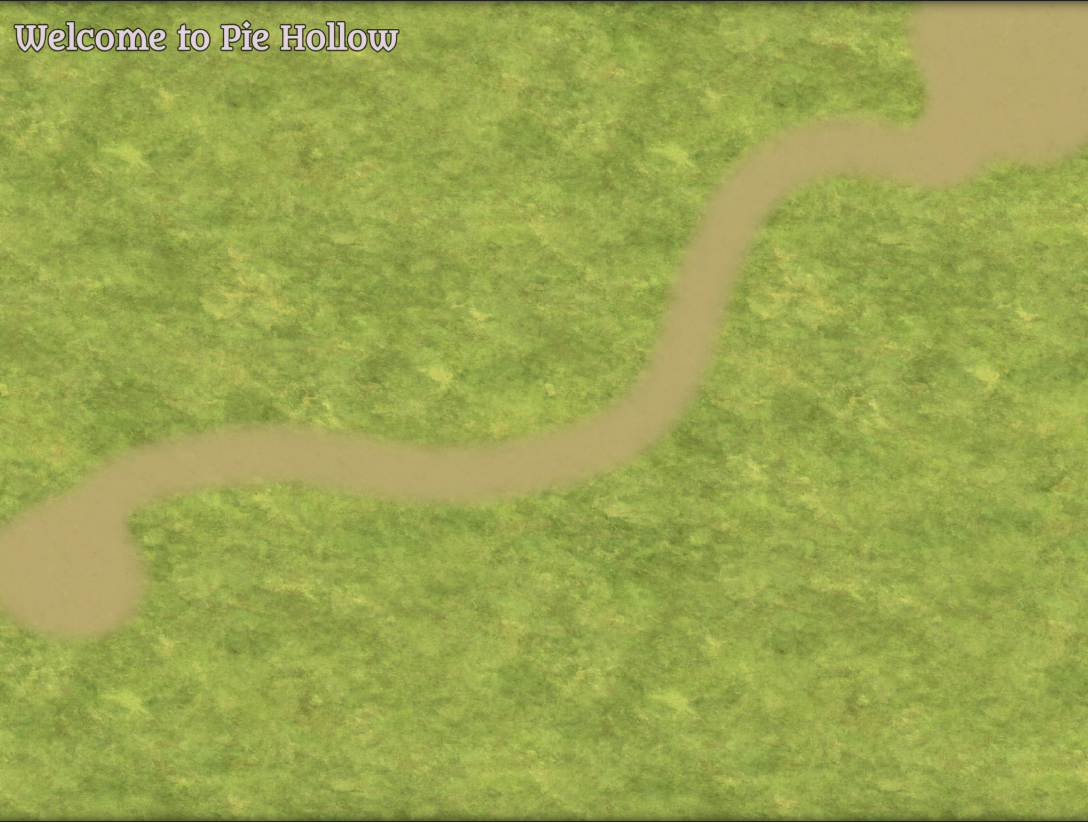
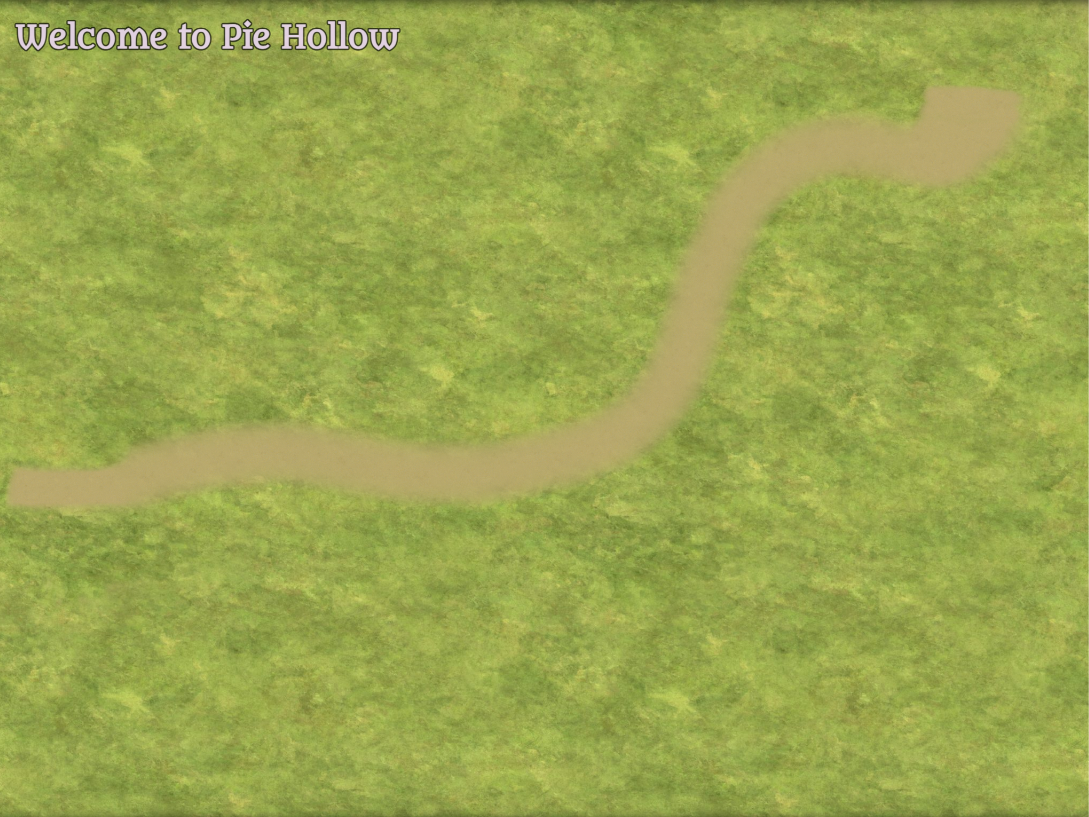
Fun messages and bobbi image added.

diff --git a/src/Sugar_Salt.java b/src/Sugar_Salt.java
@@ -39,7 +39,7 @@ public class Sugar_Salt implements Stand {
   @Override
   public GraphicsObject getGraphics(Color color) {
     if (sugarSaltShape == null) {
-            sugarSaltShape = new Image(X, Y, "SaltSugarAlternate.png"); //Consider changing this image, does not really match others.
+            sugarSaltShape = new Image(X, Y, "SugarSaltImage.png"); //Consider changing this image, does not really match others.
             sugarSaltShape.setMaxWidth(Width);
             sugarSaltShape.setMaxHeight(Height);
         }
@@ -69,7 +69,7 @@ public class Sugar_Salt implements Stand {
   @Override
   public void changeKitchenText(IngredientDisplay inventory) {
     inventory.getKitchenText1().setText("You picked up sugar & salt!");
-    inventory.getKitchenText2().setText("");
+    inventory.getKitchenText2().setText("Carrie's cat wanted to cuddle!");
   }
   @Override
   public GraphicsText setLabel() {

diff --git a/src/Filling.java b/src/Filling.java
@@ -69,7 +69,7 @@ public class Filling implements Stand {
   @Override
   public void changeKitchenText(IngredientDisplay inventory) {
     inventory.getKitchenText1().setText("You picked up blueberries!");
-    inventory.getKitchenText2().setText("");
+    inventory.getKitchenText2().setText("Bridget recently had a baby!");
   }
   @Override
   public GraphicsText setLabel() {

diff --git a/src/Mill.java b/src/Mill.java
@@ -68,7 +68,7 @@ public class Mill implements Stand{
   @Override
   public void changeKitchenText(IngredientDisplay inventory) {
     inventory.getKitchenText1().setText("You picked up flour!");
-    inventory.getKitchenText2().setText("");
+    inventory.getKitchenText2().setText("Milson got a magical mirror!");
   }
   @Override
   public GraphicsText setLabel() {

diff --git a/src/Well.java b/src/Well.java
@@ -68,7 +68,7 @@ public class Well implements Stand {
     @Override
     public void changeKitchenText(IngredientDisplay inventory) {
         inventory.getKitchenText1().setText("You picked up water!");
-        inventory.getKitchenText2().setText("");
+        inventory.getKitchenText2().setText("You met a whimsical wanderer!");
     }
     
     @Override

diff --git a/src/PieHollow.java b/src/PieHollow.java
@@ -15,7 +15,7 @@ import edu.macalester.graphics.ui.Button;
 public class PieHollow {
     CanvasWindow canvas; 
 
-    public static Image PieHollowMapImage =new Image(0, 0, "PieHollowMap3.png");
+    public static Image PieHollowMapImage =new Image(0, 0, "PieHollowMap.png");
     private Baker baker;
     public IngredientDisplay inventory; 
 

diff --git a/src/Barn.java b/src/Barn.java
@@ -72,7 +72,7 @@ public class Barn implements Stand {
   @Override
   public void changeKitchenText(IngredientDisplay inventory) {
     inventory.getKitchenText1().setText("You picked up eggs & butter!");
-    inventory.getKitchenText2().setText("");
+    inventory.getKitchenText2().setText("Bailey built his new house!");
   }
 
   @Override
